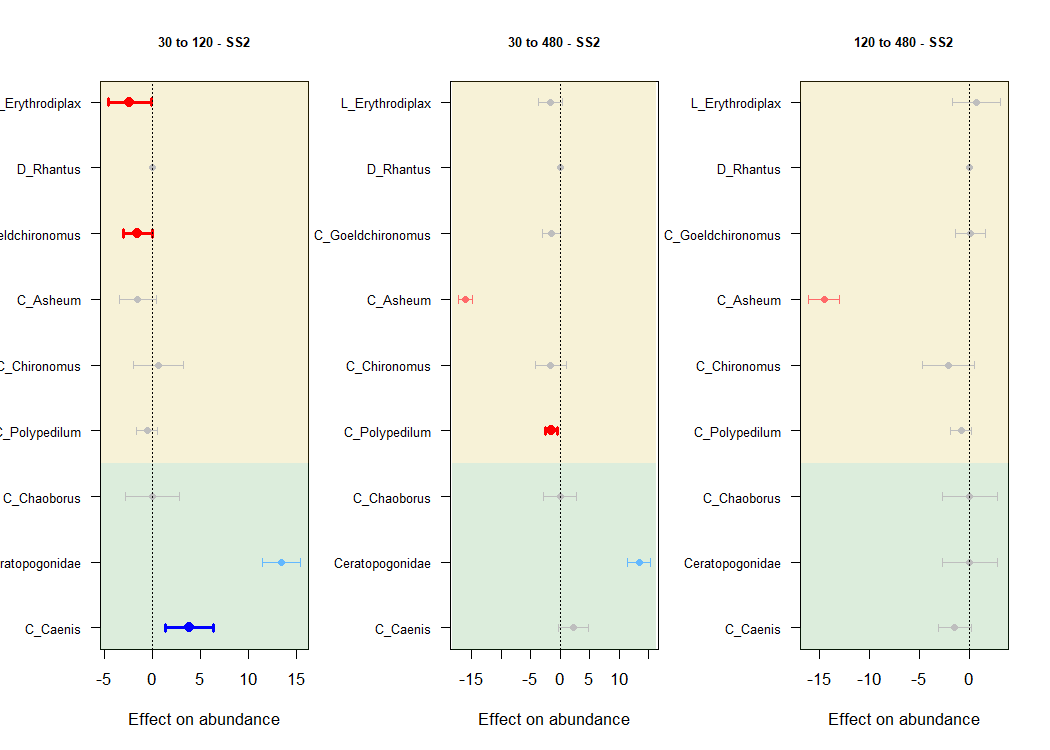
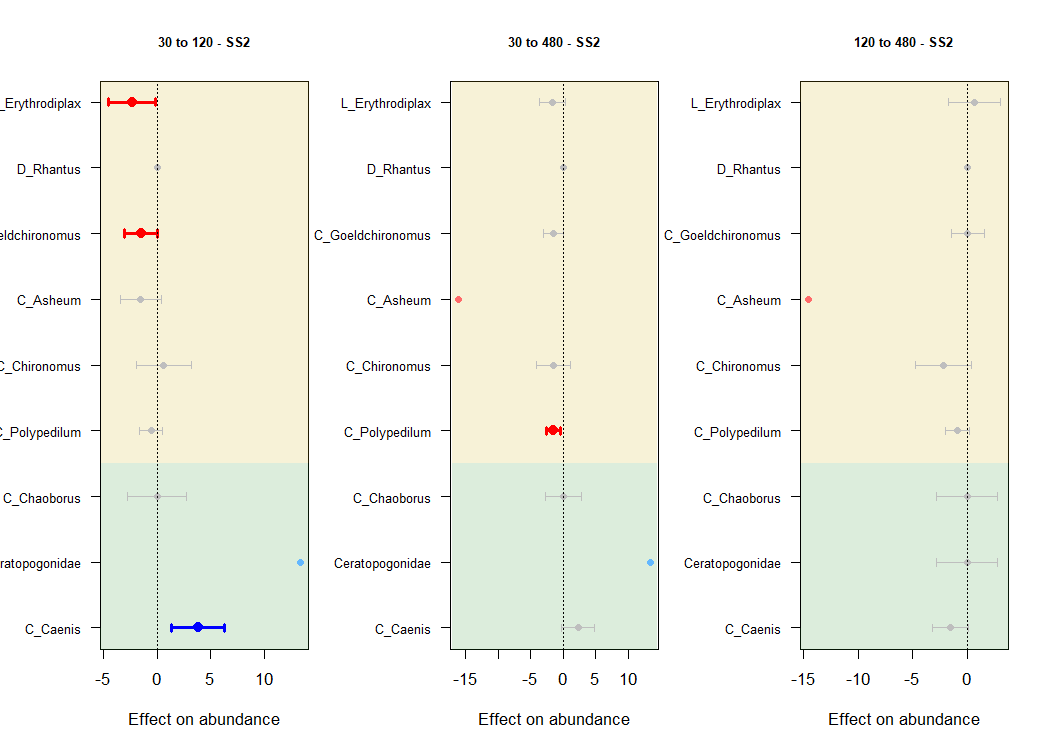
Removing error bars in coefficient plots for estimates with infinite confidence intervals.

diff --git a/Community Structure/Community-Structure.md b/Community Structure/Community-Structure.md
@@ -532,7 +532,18 @@ My_coefplot(c(as.matrix(c(fish_effect_SS2_30[which(TRAITS_SS2$trophic == "Pr")][
                                names(fish_effect_SS2_30[which(TRAITS_SS2$trophic == "Non_Pred")][ab_SS2_cons])),
             xlab = "Effect on abundance",
             main = "30 m - SS2", cex.axis = 0.8, cex.main = 0.8, rect = T, rect_lim = 6)
+```
 
+    ## Warning in arrows(y1 = At.y, y0 = At.y, x1 = upper, x0 = lower, code = 3, :
+    ## zero-length arrow is of indeterminate angle and so skipped
+
+    ## Warning in arrows(y1 = At.y, y0 = At.y, x1 = upper, x0 = lower, code = 3, :
+    ## zero-length arrow is of indeterminate angle and so skipped
+
+    ## Warning in arrows(y1 = At.y, y0 = At.y, x1 = upper, x0 = lower, code = 3, :
+    ## zero-length arrow is of indeterminate angle and so skipped
+
+``` r
 My_coefplot(c(as.matrix(c(fish_effect_SS2_120[which(TRAITS_SS2$trophic == "Pr")][ab_SS2_pred],
                           fish_effect_SS2_120[which(TRAITS_SS2$trophic == "Non_Pred")][ab_SS2_cons]))),
             c(as.matrix(c(fish_effect_SS2_upper_120[which(TRAITS_SS2$trophic == "Pr")][ab_SS2_pred],
@@ -543,7 +554,18 @@ My_coefplot(c(as.matrix(c(fish_effect_SS2_120[which(TRAITS_SS2$trophic == "Pr")]
                                names(fish_effect_SS2_120[which(TRAITS_SS2$trophic == "Non_Pred")][ab_SS2_cons])),
             xlab = "Effect on abundance",
             main = "120 m - SS2", cex.axis = 0.8, cex.main = 0.8, rect = T, rect_lim = 6)
+```
 
+    ## Warning in arrows(y1 = At.y, y0 = At.y, x1 = upper, x0 = lower, code = 3, :
+    ## zero-length arrow is of indeterminate angle and so skipped
+
+    ## Warning in arrows(y1 = At.y, y0 = At.y, x1 = upper, x0 = lower, code = 3, :
+    ## zero-length arrow is of indeterminate angle and so skipped
+
+    ## Warning in arrows(y1 = At.y, y0 = At.y, x1 = upper, x0 = lower, code = 3, :
+    ## zero-length arrow is of indeterminate angle and so skipped
+
+``` r
 My_coefplot(c(as.matrix(c(fish_effect_SS2_480[which(TRAITS_SS2$trophic == "Pr")][ab_SS2_pred],
                           fish_effect_SS2_480[which(TRAITS_SS2$trophic == "Non_Pred")][ab_SS2_cons]))),
             c(as.matrix(c(fish_effect_SS2_upper_480[which(TRAITS_SS2$trophic == "Pr")][ab_SS2_pred],
@@ -555,6 +577,18 @@ My_coefplot(c(as.matrix(c(fish_effect_SS2_480[which(TRAITS_SS2$trophic == "Pr")]
             xlab = "Effect on abundance",
             main = "480 m - SS2", cex.axis = 0.8, cex.main = 0.8, rect = T, rect_lim = 6)
 ```
+
+    ## Warning in arrows(y1 = At.y, y0 = At.y, x1 = upper, x0 = lower, code = 3, :
+    ## zero-length arrow is of indeterminate angle and so skipped
+
+    ## Warning in arrows(y1 = At.y, y0 = At.y, x1 = upper, x0 = lower, code = 3, :
+    ## zero-length arrow is of indeterminate angle and so skipped
+
+    ## Warning in arrows(y1 = At.y, y0 = At.y, x1 = upper, x0 = lower, code = 3, :
+    ## zero-length arrow is of indeterminate angle and so skipped
+
+    ## Warning in arrows(y1 = At.y, y0 = At.y, x1 = upper, x0 = lower, code = 3, :
+    ## zero-length arrow is of indeterminate angle and so skipped
 
 ![](Community-Structure_files/figure-gfm/plot_effect_fish_SS2-1.png)<!-- -->
 
